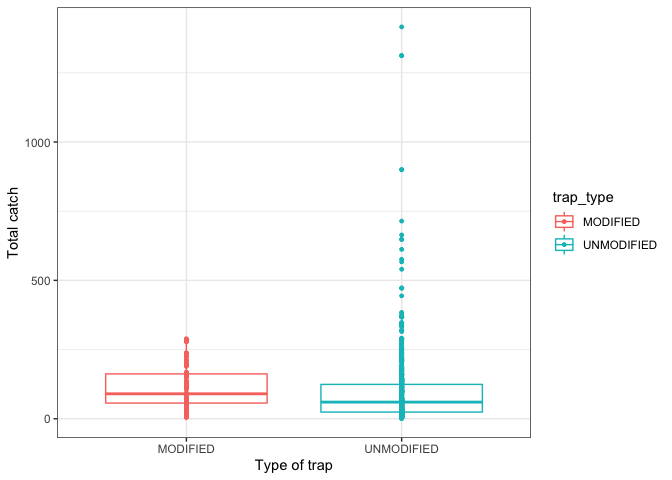
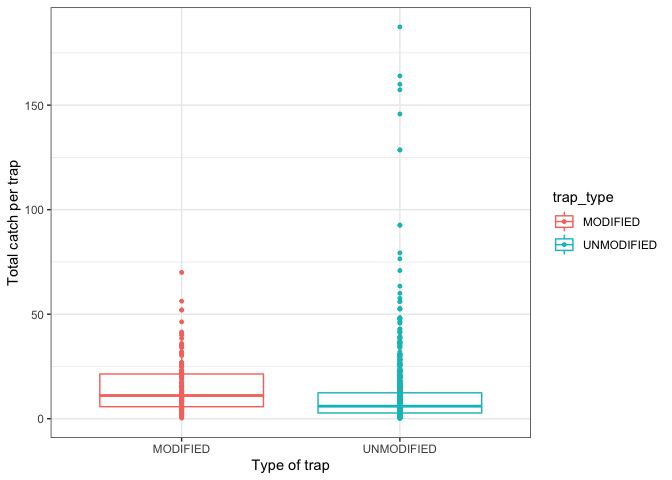
goal #1 results and most stats with that

diff --git a/FishLandings/scripts/Analysis.md b/FishLandings/scripts/Analysis.md
@@ -4,21 +4,30 @@ Author: Emma Strand; <emma_strand@uri.edu>
 
 ## Goal
 
-1.  Total catch per unit effort between modified and traditional traps.
-    It would be great to see this as grams captured per trap set.  
-2.  Species catch per unit effort between modified and traditional
+**1. Total catch per unit effort between modified and traditional traps.
+It would be great to see this as grams captured per trap set.**
+
+Results:  
+- Modified traps had a significantly higher total catch per trap set.
+This pattern holds for all landing sites and individual fisherman (it
+does not appear that either of those variables influence this result).  
+- Unmodified traps had a significantly higher weight in grams per trap
+set. This pattern holds for all individual fisherman, but Mayungu
+landing site might drive this result more than the other sites.
+
+1.  Species catch per unit effort between modified and traditional
     traps. Take the top 3-5 species and run \#1 for them separately.  
-3.  Total mature fish catch per unit effort between modified and
+2.  Total mature fish catch per unit effort between modified and
     traditional traps. This will have to be for the top 3-5 species
     separately. Go to Fishbase and find the length at first maturity for
     that particular species, then assign each fish a “mature” or
     “immature” status in the data and calculate.  
-4.  Average length of catch versus length at first maturity (Lmat). Take
+3.  Average length of catch versus length at first maturity (Lmat). Take
     the difference for each fish in the data against its length at first
     maturity and then calculate a weighted value for modified versus
     traditional traps where a value above 0 represents a fish above Lmat
     and a value below represents a fish below Lmat.  
-5.  Length frequency of top 3-5 species in modified versus traditional
+4.  Length frequency of top 3-5 species in modified versus traditional
     (different colors) with Lmat etc. indicators pulled from Fishbase.
 
 ## Contents
@@ -62,31 +71,69 @@ Goal: grams captured per trap set.
 modified_trap_df <- data %>% unite(survey_id, Operation_date, fisher_id, sep = " ", remove = FALSE) %>%
   dplyr::group_by(survey_id) %>% 
   mutate(total_catch = sum(number_of_fish),
-         grams_per_trap = total_weight_kg/total_traps_collected) %>%
+         grams_per_trap = total_weight_kg/total_traps_collected,
+         catch_per_trap = total_catch/total_traps_collected) %>%
   dplyr::ungroup(survey_id) %>%
   subset(trap_type == "MODIFIED" | trap_type == "UNMODIFIED") %>%
-  select(survey_id, enumerator, trap_type, `No. of fishers in crew`, total_catch, grams_per_trap) %>%
+  select(survey_id, enumerator, trap_type, `No. of fishers in crew`, landing_site, total_catch, grams_per_trap, catch_per_trap) %>%
   distinct()
 ```
 
 ### Plotting figures.
 
+Catch per trap
+
 ``` r
-# basic total catch 
+# basic total catch per trap with no other variables 
 modified_trap_df %>% 
-  ggplot(aes(x=trap_type, y=total_catch, color=trap_type)) +
+  ggplot(aes(x=trap_type, y=catch_per_trap, color=trap_type)) +
   geom_boxplot(aes(color=trap_type), outlier.size = 0, lwd=0.5) +
     geom_point(aes(fill=trap_type), pch = 21, size=1) +
   theme_bw() + 
-  ylab("Total catch") + xlab("Type of trap") +
+  ylab("Total catch per trap") + xlab("Type of trap") +
   theme(axis.text.x = element_text(vjust = 1.1)) #Set the text angle
 ```
 
-    ## Warning: Removed 6 rows containing non-finite values (stat_boxplot).
+    ## Warning: Removed 33 rows containing non-finite values (stat_boxplot).
 
-    ## Warning: Removed 6 rows containing missing values (geom_point).
+    ## Warning: Removed 33 rows containing missing values (geom_point).
 
 ![](Analysis_files/figure-gfm/unnamed-chunk-4-1.png)<!-- -->
+
+``` r
+# does this differ by fisherman or landing site?
+modified_trap_df %>% 
+  ggplot(aes(x=trap_type, y=catch_per_trap, color=trap_type)) + 
+  facet_wrap(~enumerator) +
+  geom_boxplot(aes(color=trap_type), outlier.size = 0, lwd=0.5) +
+    geom_point(aes(fill=trap_type), pch = 21, size=1) +
+  theme_bw() + 
+  ylab("Grams of fish per trap") + xlab("Type of trap") +
+  theme(axis.text.x = element_text(vjust = 1.1)) #Set the text angle
+```
+
+    ## Warning: Removed 33 rows containing non-finite values (stat_boxplot).
+    ## Removed 33 rows containing missing values (geom_point).
+
+![](Analysis_files/figure-gfm/unnamed-chunk-4-2.png)<!-- -->
+
+``` r
+modified_trap_df %>% 
+  ggplot(aes(x=trap_type, y=catch_per_trap, color=trap_type)) + 
+  facet_wrap(~landing_site) +
+  geom_boxplot(aes(color=trap_type), outlier.size = 0, lwd=0.5) +
+    geom_point(aes(fill=trap_type), pch = 21, size=1) +
+  theme_bw() + 
+  ylab("Grams of fish per trap") + xlab("Type of trap") +
+  theme(axis.text.x = element_text(vjust = 1.1)) #Set the text angle
+```
+
+    ## Warning: Removed 33 rows containing non-finite values (stat_boxplot).
+    ## Removed 33 rows containing missing values (geom_point).
+
+![](Analysis_files/figure-gfm/unnamed-chunk-4-3.png)<!-- -->
+
+Grams per trap
 
 ``` r
 # basic grams per trap plot with no other variables 
@@ -103,7 +150,7 @@ modified_trap_df %>%
 
     ## Warning: Removed 32 rows containing missing values (geom_point).
 
-![](Analysis_files/figure-gfm/unnamed-chunk-4-2.png)<!-- -->
+![](Analysis_files/figure-gfm/unnamed-chunk-5-1.png)<!-- -->
 
 ``` r
 # visually seeing if this differs by fisherman 
@@ -120,13 +167,31 @@ modified_trap_df %>%
     ## Warning: Removed 32 rows containing non-finite values (stat_boxplot).
     ## Removed 32 rows containing missing values (geom_point).
 
-![](Analysis_files/figure-gfm/unnamed-chunk-4-3.png)<!-- -->
+![](Analysis_files/figure-gfm/unnamed-chunk-5-2.png)<!-- -->
 
 ``` r
-# if this differs by 
+# visually seeing if this differs by landing site 
 modified_trap_df %>% 
-  ggplot(aes(x=total_catch, y=grams_per_trap, color=trap_type)) +
+  ggplot(aes(x=trap_type, y=grams_per_trap, color=trap_type)) + 
+  facet_wrap(~landing_site) +
+  geom_boxplot(aes(color=trap_type), outlier.size = 0, lwd=0.5) +
+    geom_point(aes(fill=trap_type), pch = 21, size=1) +
   theme_bw() + 
+  ylab("Grams of fish per trap") + xlab("Type of trap") +
+  theme(axis.text.x = element_text(vjust = 1.1)) #Set the text angle
+```
+
+    ## Warning: Removed 32 rows containing non-finite values (stat_boxplot).
+    ## Removed 32 rows containing missing values (geom_point).
+
+![](Analysis_files/figure-gfm/unnamed-chunk-5-3.png)<!-- -->
+
+The relationship between grams per trap and total catch per trap.
+
+``` r
+modified_trap_df %>% 
+  ggplot(aes(x=catch_per_trap, y=grams_per_trap, color=trap_type)) +
+  theme_bw() + xlab("total catch per trap") + ylab("grams per trap") +
   geom_smooth(aes(fill=trap_type), method="loess", se=TRUE, fullrange=TRUE, level=0.95, color="black") +
   geom_point(aes(fill=trap_type), pch = 21, size=1)
 ```
@@ -135,13 +200,15 @@ modified_trap_df %>%
 
     ## Warning: Removed 38 rows containing non-finite values (stat_smooth).
 
-    ## Warning: Removed 64 rows containing missing values (geom_smooth).
+    ## Warning: Removed 51 rows containing missing values (geom_smooth).
 
     ## Warning: Removed 38 rows containing missing values (geom_point).
 
-![](Analysis_files/figure-gfm/unnamed-chunk-4-4.png)<!-- -->
+![](Analysis_files/figure-gfm/unnamed-chunk-6-1.png)<!-- -->
 
 ### Statistics on the above.
+
+#### Grams per trap and total catch
 
 Default of t.test in R is a Welch t-test which is just an adaptation of
 t-test, and it is used when the two samples have possibly unequal
@@ -155,9 +222,13 @@ include var.equal = TRUE in below ttest.
 We are using an unpaired two sample t-test for this dataset.
 
 ``` r
-UN <- modified_trap_df %>% subset(trap_type == "MODIFIED") %>% select(grams_per_trap) %>% na.omit()
-MOD <- modified_trap_df %>% subset(trap_type == "UNMODIFIED") %>% select(grams_per_trap) %>% na.omit()
+UN <- modified_trap_df %>% subset(trap_type == "MODIFIED") %>% na.omit()
+MOD <- modified_trap_df %>% subset(trap_type == "UNMODIFIED") %>% na.omit()
+```
 
+Grams per trap
+
+``` r
 var.test(UN$grams_per_trap, MOD$grams_per_trap)
 ```
 
@@ -165,13 +236,13 @@ var.test(UN$grams_per_trap, MOD$grams_per_trap)
     ##  F test to compare two variances
     ## 
     ## data:  UN$grams_per_trap and MOD$grams_per_trap
-    ## F = 0.53874, num df = 152, denom df = 983, p-value = 3.849e-06
+    ## F = 0.54523, num df = 149, denom df = 976, p-value = 7.027e-06
     ## alternative hypothesis: true ratio of variances is not equal to 1
     ## 95 percent confidence interval:
-    ##  0.4274283 0.6939524
+    ##  0.4317249 0.7040670
     ## sample estimates:
     ## ratio of variances 
-    ##          0.5387362
+    ##          0.5452349
 
 ``` r
 t.test(grams_per_trap~trap_type, data = modified_trap_df, var.equal = FALSE)
@@ -189,5 +260,42 @@ t.test(grams_per_trap~trap_type, data = modified_trap_df, var.equal = FALSE)
     ##   mean in group MODIFIED mean in group UNMODIFIED 
     ##                0.8711472                1.0278321
 
-**Current error :Error in is.finite(x) : default method not implemented
-for type ‘list’**. Circle back to this..
+Total catch per trap
+
+``` r
+var.test(UN$catch_per_trap, MOD$catch_per_trap)
+```
+
+    ## 
+    ##  F test to compare two variances
+    ## 
+    ## data:  UN$catch_per_trap and MOD$catch_per_trap
+    ## F = 0.56997, num df = 149, denom df = 976, p-value = 2.855e-05
+    ## alternative hypothesis: true ratio of variances is not equal to 1
+    ## 95 percent confidence interval:
+    ##  0.4513141 0.7360136
+    ## sample estimates:
+    ## ratio of variances 
+    ##          0.5699746
+
+``` r
+t.test(catch_per_trap~trap_type, data = modified_trap_df, var.equal = FALSE)
+```
+
+    ## 
+    ##  Welch Two Sample t-test
+    ## 
+    ## data:  catch_per_trap by trap_type
+    ## t = 3.8155, df = 236.39, p-value = 0.0001735
+    ## alternative hypothesis: true difference in means between group MODIFIED and group UNMODIFIED is not equal to 0
+    ## 95 percent confidence interval:
+    ##  2.131122 6.681071
+    ## sample estimates:
+    ##   mean in group MODIFIED mean in group UNMODIFIED 
+    ##                 15.20394                 10.79785
+
+Total catch per trap vs weight in grams per trap.
+
+Left off at statistics and results for total catch per trap vs weight in
+grams per trap… question: does higher catch \# result in higher weight
+in each modified and unmodified traps?
